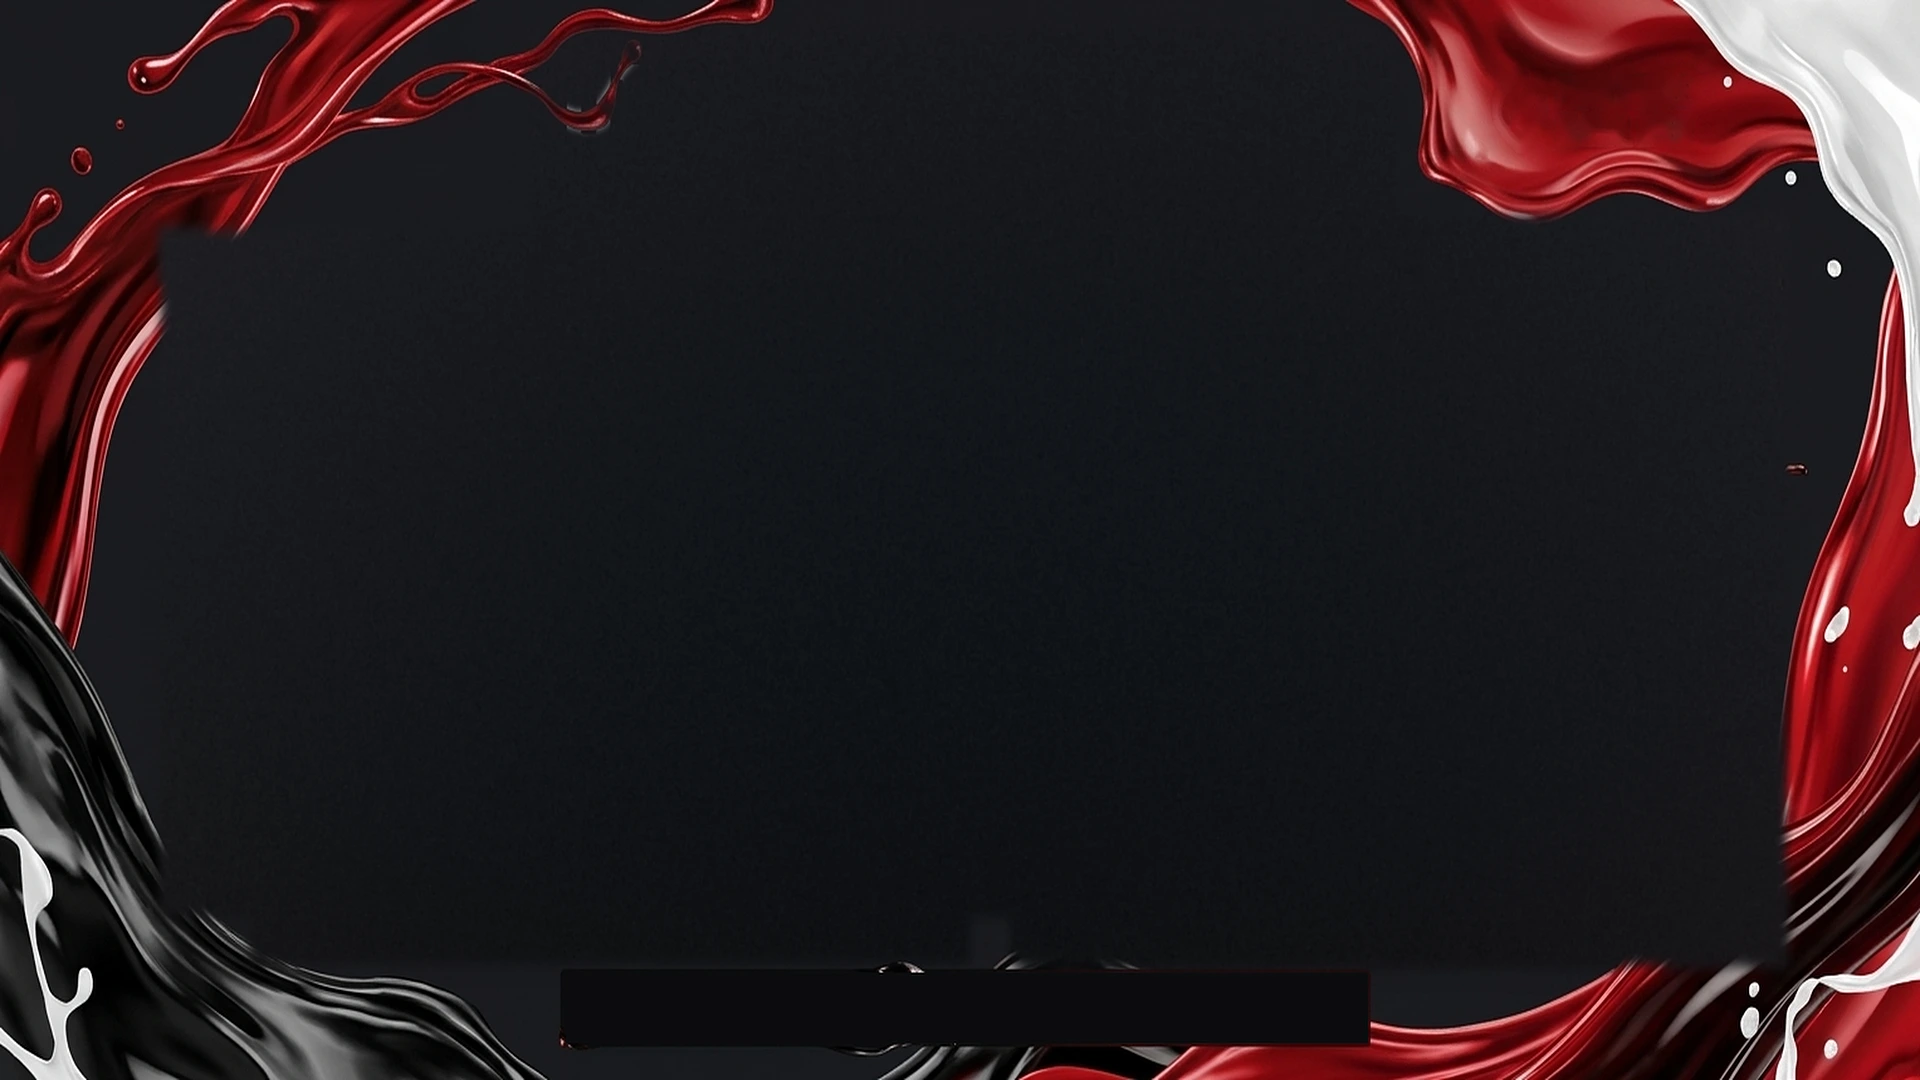
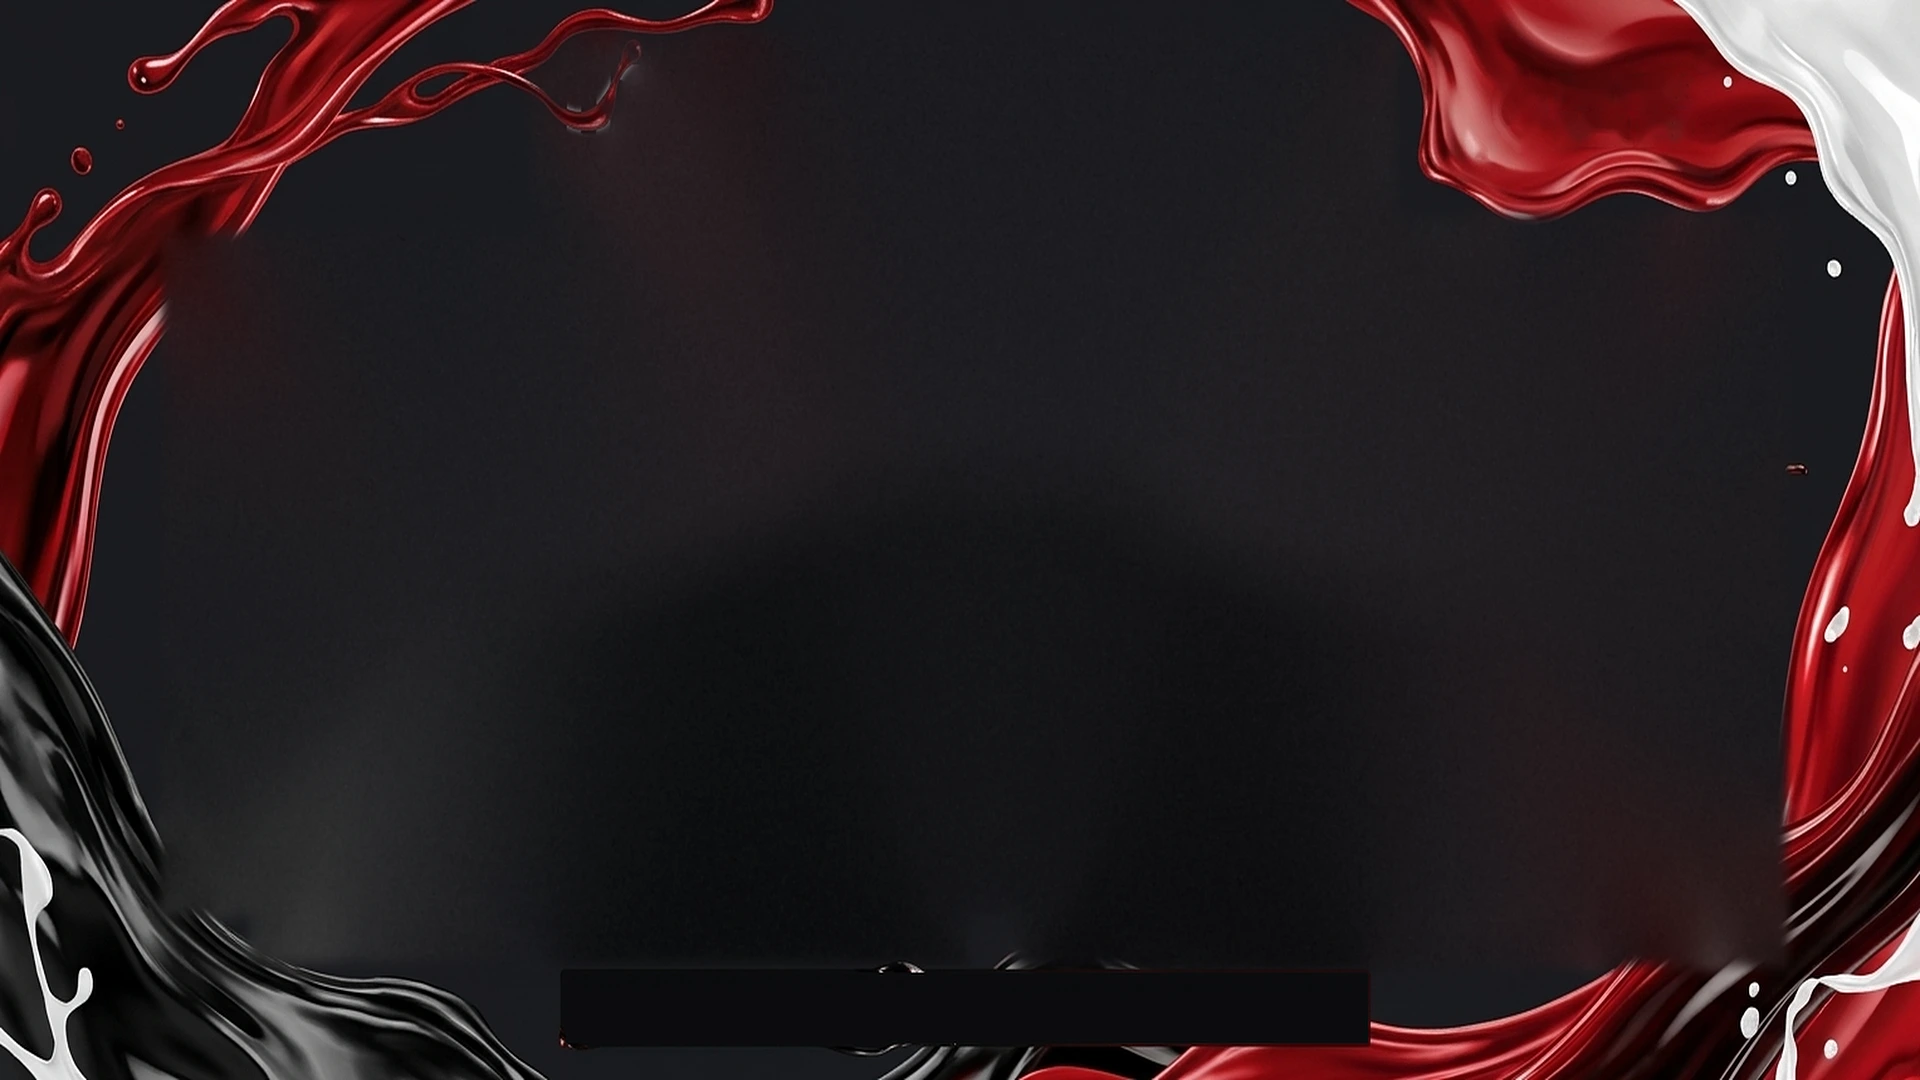
O'yin ustidagi elementlar suyuqlik ramkada, bayroqlar loyiha ichida
- Rasmdagi yaltiroq qizil panel 9 bo'lakli ramka sifatida: reyting,
  ELIMINATED, zona, WWCD, pastki banner va banner kartalar, sahna panellari
- G'olib yozuvi suyuqlik tasmasi ustida
- Bayroqlar img/flags ichida (flagcdn.com ochilmaydigan joyda ham ishlaydi)
- Panelsiz fondagi chegara izi tozalandi, sarlavha logotipga tegmaydi

Claude-Session: https://claude.ai/code/session_01CvhNJpz6HuCQFwtWjatCqQ

Changed region(s): [[0.125, 0.7333, 0.1875, 0.8861], [0.875, 0.825, 0.9062, 0.9167]]

diff --git a/pubg-overlay/css/overlay.css b/pubg-overlay/css/overlay.css
@@ -39,7 +39,7 @@ img { display: block; object-fit: contain; }
 @keyframes blink { to { opacity: .4; } }
 
 /* ---------- Live ranking (right) ---------- */
-#rank { right: 22px; top: 190px; width: 270px; filter: drop-shadow(0 8px 18px rgba(0, 0, 0, .45)); }
+#rank { right: 34px; top: 190px; width: 270px; filter: drop-shadow(0 8px 18px rgba(0, 0, 0, .45)); }
 #rank.hide { transform: translateX(70px); }
 .rk-lead {
   height: 104px; display: grid; grid-template-columns: 96px 1fr auto; align-items: center; position: relative; overflow: hidden;
@@ -323,3 +323,68 @@ img { display: block; object-fit: contain; }
 .mv1 .sts > div { flex: 1; padding: 22px 10px; text-align: center; animation: rowin .5s .4s both; }
 .mv1 .sts b { display: block; font-size: 84px; font-weight: 800; line-height: 1; }
 .mv1 .sts span { font-size: 24px; font-weight: 700; letter-spacing: .16em; color: var(--mut); }
+
+/* =====================================================================
+   LIQUID FRAMES: every widget sits in the glossy panel cut from the artwork
+   (img/panel.png used as a stretchable 9-slice frame drawn behind the widget)
+   ===================================================================== */
+#rank, .wc, #zone, .te, #base, .bn, .lq { isolation: isolate; }
+.wc, .te, #base { position: relative; }          /* #rank, #zone, .bn are already absolutely positioned */
+#rank::before, .wc::before, #zone::before, .te::before, #base::before, .bn::before, .lq::before {
+  content: ''; position: absolute; z-index: -1; left: -12px; right: -12px; top: -15px; bottom: -13px;
+  border-style: solid; border-width: 30px 22px 28px 22px; border-radius: 0;
+  border-image: url('../img/panel.png') 76 44 72 44 fill stretch;
+  background: none; box-shadow: none; filter: drop-shadow(0 12px 20px rgba(0, 0, 0, .55));
+}
+.glossy { background: linear-gradient(180deg, rgba(255, 255, 255, .28), rgba(255, 255, 255, 0) 48%), linear-gradient(100deg, var(--acc-l), var(--acc) 40%, var(--acc-d)); }
+
+/* --- in-game ranking --- */
+#rank { filter: none; }
+.rk-lead { border: 0; border-radius: 12px; margin: 0 0 4px; box-shadow: inset 0 1px 0 rgba(255, 255, 255, .35), 0 6px 14px rgba(0, 0, 0, .35); }
+.rk-lead .bdg { border-radius: 12px 0 10px 0; }
+.rk-head { background: transparent; border: 0; border-bottom: 1px solid rgba(255, 255, 255, .22); color: #f2c9cf; }
+.rk-rows { background: transparent; border: 0; }
+.rk-row { border-top: 1px solid rgba(255, 255, 255, .07); }
+.rk-row:first-child { border-top: 0; }
+.rk-row .el { background: rgba(0, 0, 0, .22); border-radius: 4px; }
+.rk-foot { background: transparent; border: 0; color: #f2c9cf; }
+
+/* --- final teams --- */
+#wwcd { top: 46px; gap: 34px; }
+.wc { background: transparent; border: 0; overflow: visible; box-shadow: none; }
+.wc .bot { background: rgba(0, 0, 0, .4); border-radius: 8px; overflow: hidden; margin: 2px 4px 2px; }
+.wc .bot i { border-radius: 8px 0 0 8px; }
+
+/* --- zone --- */
+#zone { overflow: visible; border: 0; box-shadow: none; border-radius: 0; top: 82px; }
+#zone .t { background: transparent; }
+#zone .c { border-radius: 12px; margin: 4px 4px 4px 0; width: 98px; box-shadow: inset 0 1px 0 rgba(255, 255, 255, .35); }
+
+/* --- team eliminated --- */
+#telim { top: 200px; }
+.te { background: transparent; border: 0; overflow: visible; box-shadow: none; border-radius: 0; }
+.te .sd { background: rgba(0, 0, 0, .3); border-radius: 12px; margin: 4px; }
+.te .sd.v { background: rgba(0, 0, 0, .55); }
+.te .mid b { text-shadow: 0 3px 12px rgba(0, 0, 0, .6); }
+
+/* --- lower third --- */
+#lower { filter: none; }
+#base { background: transparent; border: 0; overflow: visible; border-radius: 0; }
+#base .lg { border-radius: 12px; margin: 4px 0 4px 4px; width: 84px; background: linear-gradient(180deg, rgba(255, 255, 255, .28), rgba(255, 255, 255, 0) 48%), linear-gradient(100deg, var(--acc-l), var(--acc) 40%, var(--acc-d)); box-shadow: inset 0 1px 0 rgba(255, 255, 255, .35); }
+#base.nologo .lg { width: 10px; margin-right: 6px; }
+#base .sp { background: rgba(0, 0, 0, .45); border-radius: 12px; margin: 4px 4px 4px 0; }
+/* the pop-up banner slides out of a clipped box: leave room for the frame around it */
+#pop { margin: 0 -14px; padding: 0 14px; }
+#pop.on { height: 236px; }
+.bn { left: 14px; right: 14px; bottom: 22px; height: 196px; overflow: visible; border: 0; border-radius: 0; }
+.bn .card { background: transparent; height: 138px; border-radius: 12px 12px 0 0; overflow: hidden; }
+.bn .card::after { display: none; }
+.bn .pic { border-radius: 12px 0 0 0; background: linear-gradient(160deg, rgba(0, 0, 0, .25), rgba(0, 0, 0, .55)); }
+.bn .tx em { color: #ffd0d5; }
+.bn .nm { border-radius: 0 0 12px 12px; height: 58px; box-shadow: inset 0 1px 0 rgba(255, 255, 255, .35); }
+
+/* --- scene panels: same frame, the "#1 / WWCD" label uses the liquid ribbon --- */
+.lq::before { left: -14px; right: -14px; top: -17px; bottom: -15px; }
+.hb::before { border: 0; border-image: none; background: url('../img/ribbon.png') center / 100% 100% no-repeat; left: -46px; right: -46px; top: -34px; bottom: -36px; filter: drop-shadow(0 10px 18px rgba(0, 0, 0, .5)); }
+.sc.plate .hb::before { display: none; }
+.pc .ph { border-radius: 12px 12px 0 0; }

diff --git a/pubg-overlay/js/overlay.js b/pubg-overlay/js/overlay.js
@@ -24,7 +24,7 @@
     return true;
   }
   const img = (src, cls) => src ? `<img class="${cls || ''}" src="${esc(src)}" alt="">` : '';
-  const flag = (t, cls) => img(U.flagUrl(t.flag), cls || 'fl');
+  const flag = (t, cls) => { const u = U.flagUrl(t.flag); return u ? `<img class="${cls || 'fl'}" src="${u}" alt="" onerror="this.style.visibility='hidden'">` : ''; };
   const logo = (t, cls) => t.logo ? img(t.logo, cls || 'lg') : `<div class="nolg ${cls || ''}">${esc((t.tag || '?').slice(0, 4))}</div>`;
   const pips = pl => `<div class="pips">${pl.map(p => `<i class="${p.st === 'd' ? '' : p.st === 'k' ? 'k' : 'a'}"></i>`).join('')}</div>`;
 
@@ -221,9 +221,9 @@
     return `<div class="bg" style="background-image:url('${cfg.bg ? esc(cfg.bg) : 'img/bg-' + kind + '.webp'}')"></div>`;
   }
   function frame(h1, h2, body, cls, kind) {
-    const fit = plate() && kind === 'rank' ? 800 : 1240;
+    const fit = plate() ? 800 : 1240;                          // on the artwork the title must stay clear of the logo corner
     return `<div class="sc ${plate() ? 'art' : ''} ${plate() && kind === 'rank' ? 'plate' : ''} ${cls || ''}">${backdrop(kind || 'clean')}<div class="brand">${img(cfg.logo)}<span>${esc(cfg.title)}</span></div>` +
-      `<div class="hd"><h1 style="font-size:${Math.min(plate() && kind === 'rank' ? 70 : 82, Math.floor(fit / (Math.max(1, String(h1).length) * .8)))}px">${esc(h1)}</h1><h2>${esc(h2)}</h2></div><div class="body">${body}</div>` +
+      `<div class="hd"><h1 style="font-size:${Math.min(plate() ? 74 : 82, Math.floor(fit / (Math.max(1, String(h1).length) * .8)))}px">${esc(h1)}</h1><h2>${esc(h2)}</h2></div><div class="body">${body}</div>` +
       (cfg.sponsors.length ? `<div class="spons">${cfg.sponsors.map(s => img(s)).join('')}</div>` : '') + '</div>';
   }
   /* Left side: the leading team (player photos, or the logo when there are none) */

diff --git a/pubg-overlay/js/common.js b/pubg-overlay/js/common.js
@@ -56,7 +56,7 @@ const U = {
     return ix;
   },
   flagUrl(code) {
-    return /^[a-z]{2}$/i.test(code || '') ? `https://flagcdn.com/w80/${code.toLowerCase()}.png` : '';
+    return /^[a-z]{2}$/i.test(code || '') ? `img/flags/${code.toLowerCase()}.png` : '';   // bundled: works even where flagcdn.com is blocked
   },
   P(live, pid) { return live.players[pid] || { k: 0, kn: 0, dmg: 0, st: 'a' }; },
 
